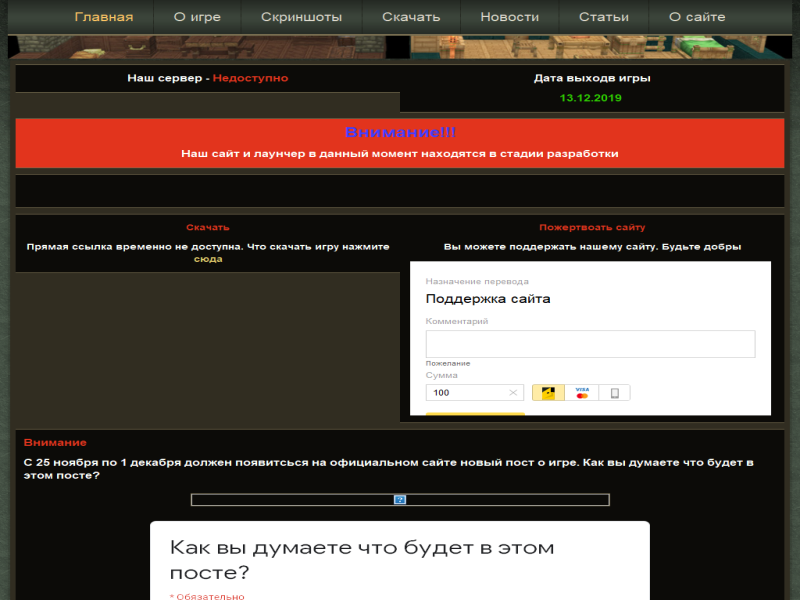
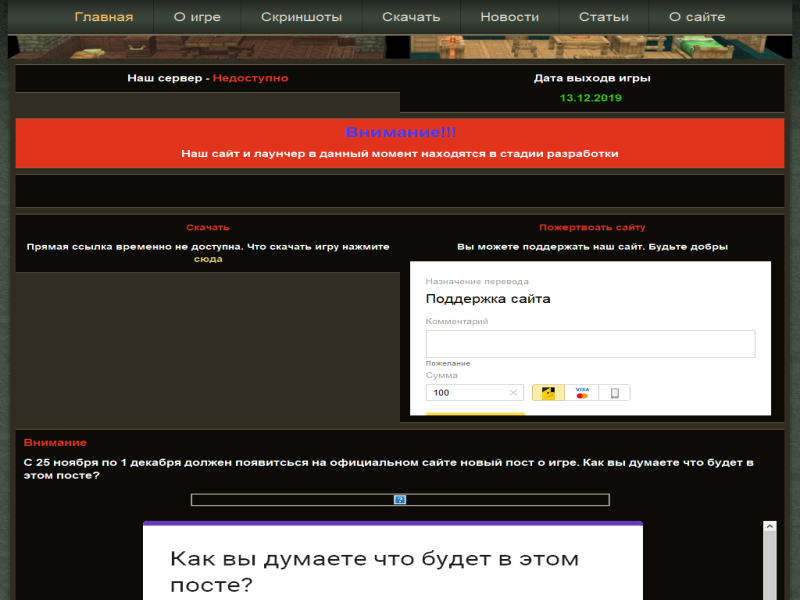
Обнволение сайта

Changed region(s): [[0.1562, 0.87, 0.8125, 1.0], [0.5625, 0.39, 0.9375, 0.42], [0.9375, 0.87, 0.9688, 1.0]]

diff --git a/index.html b/index.html
@@ -86,7 +86,7 @@
         <p style="text-align: center;"><span style="font-weight: bold; color: #FFFFFF;">Прямая ссылка временно не доступна. Что скачать игру нажмите <a href="down.html">сюда</a></span></p>
     </div><div class="art-layout-cell layout-item-2" style="width: 50%" >
         <p style="text-align: center;"><span style="font-weight: bold;">Пожертвоать сайту</span></p>
-        <p style="text-align: center;"><span style="color: rgb(255, 255, 255); font-weight: bold;">Вы можете поддержать нашему сайту. Будьте добры</span><br></p>
+        <p style="text-align: center;"><span style="color: rgb(255, 255, 255); font-weight: bold;">Вы можете поддержать наш сайт. Будьте добры</span><br></p>
         <p style="text-align: center;"><iframe src="https://money.yandex.ru/quickpay/shop-widget?writer=seller&amp;targets=%D0%9F%D0%BE%D0%B4%D0%B4%D0%B5%D1%80%D0%B6%D0%BA%D0%B0%20%D1%81%D0%B0%D0%B9%D1%82%D0%B0&amp;targets-hint=&amp;default-sum=100&amp;button-text=14&amp;payment-type-choice=on&amp;mobile-payment-type-choice=on&amp;fio=on&amp;comment=on&amp;mail=on&amp;hint=%D0%9F%D0%BE%D0%B6%D0%B5%D0%BB%D0%B0%D0%BD%D0%B8%D0%B5&amp;successURL=&amp;quickpay=shop&amp;account=41001601011656" width="423" height="313" frameborder="0" allowtransparency="true" scrolling="no"></iframe></p>
     </div>
     </div>
